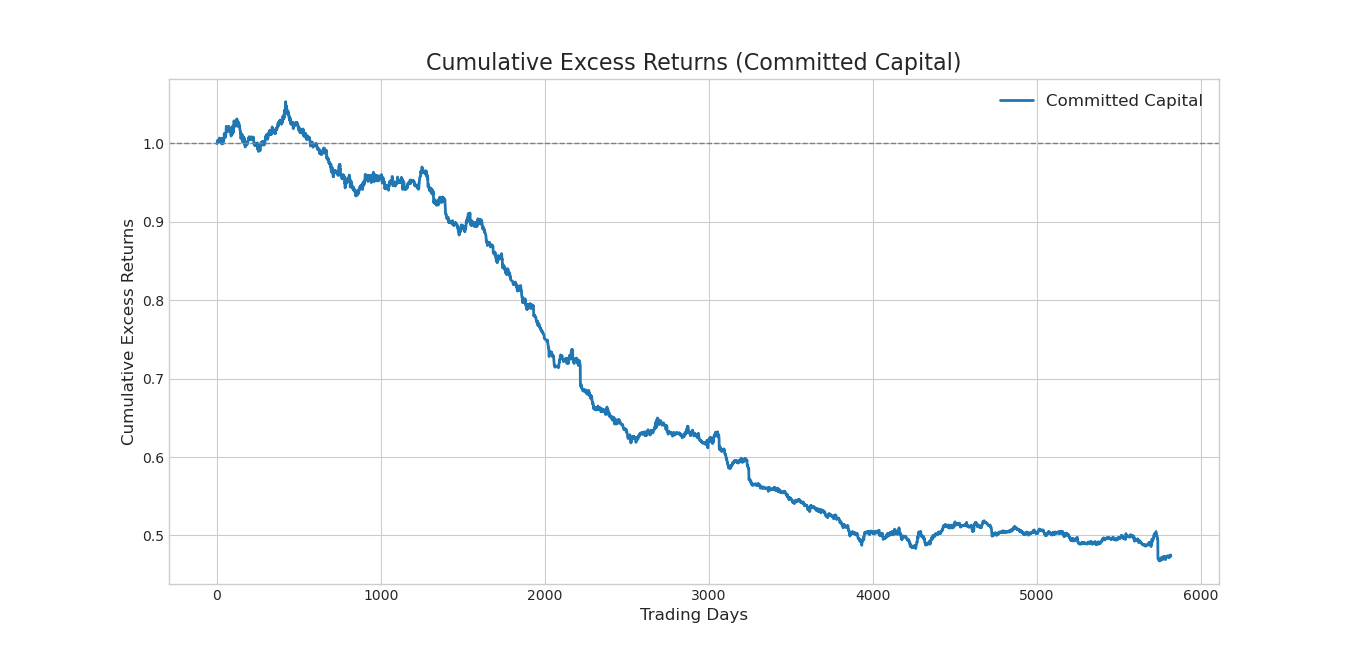
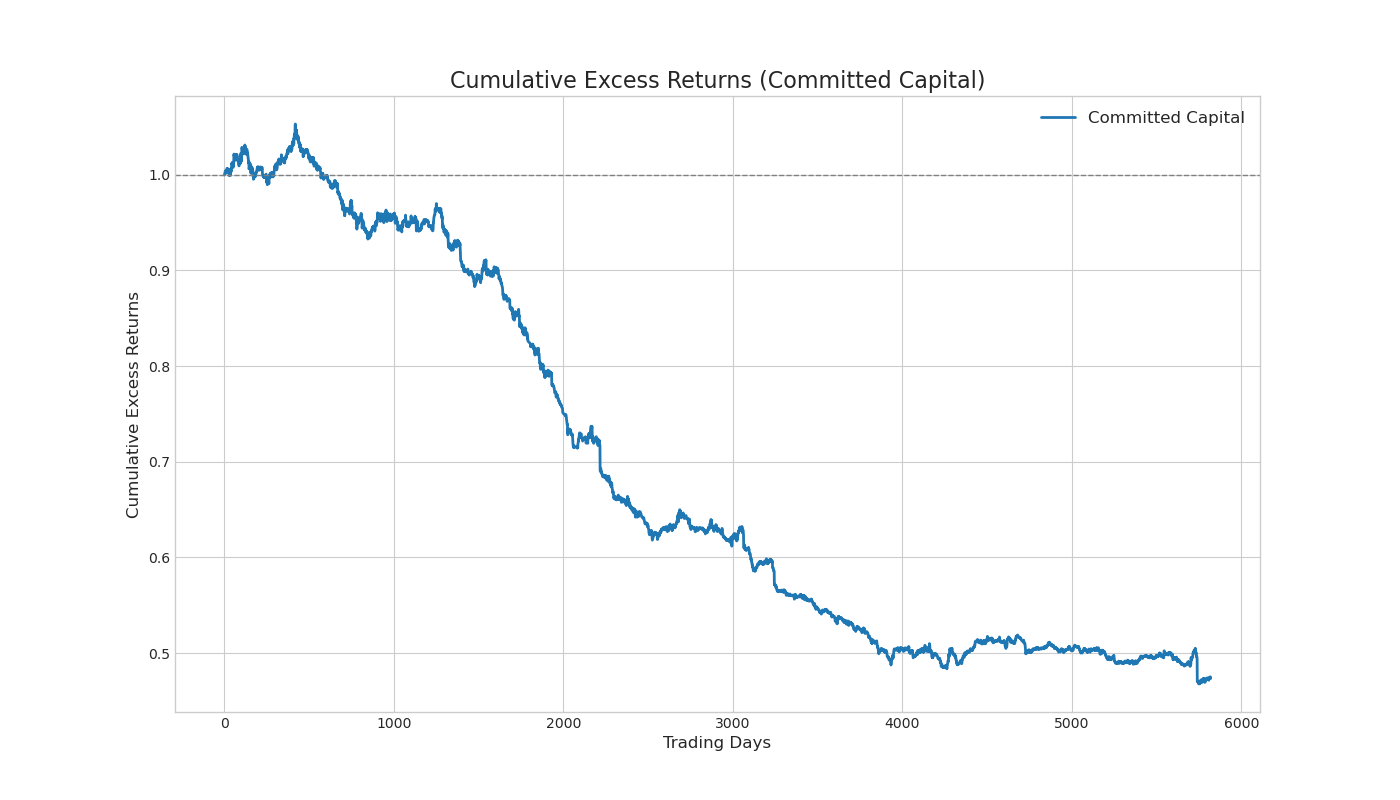
Changing cummulative CC return inside loop

diff --git a/distance_code/.ipynb_checkpoints/distance_gatev_v2-checkpoint.py b/distance_code/.ipynb_checkpoints/distance_gatev_v2-checkpoint.py
@@ -2,6 +2,11 @@ import math
 import numpy as np
 import pandas as pd
 from tqdm import tqdm
+from collections import Counter
+import scipy.stats
+import matplotlib.pyplot as plt
+import warnings
+warnings.filterwarnings('ignore', category=FutureWarning) #remove python standard warning and have clear output
 
 periods = pd.read_csv("../distance_data/Periods.csv", header=None)
 Pt = pd.read_csv("../distance_data/Pt_formatted.csv", header=0)
@@ -20,14 +25,14 @@ daylag = 0
 wi_update = 1
 years = 2015 - 1990 + 0.5
 
-no_pairs = 20
+no_pairs = 10
 trading_costs = 0
 # buy/sell (percentage cost for opening and closing pairs: 0.001, 0.002, for example)
-percentage_costs = 0
+percentage_costs = 0.002
 # set whether (0) or not (2) positive trading volume is required for opening/closing a pair
 trade_req = 0
 # Choose how much loss we are willing to accePt on a given pair, compared to 1, i.e, 0.93 = 7% stop loss
-Stop_loss = 0.01
+Stop_loss = 0.95
 
 if Stop_loss != float('-inf'):
     stop_dir = 100 - (Stop_loss * 100)
@@ -78,6 +83,13 @@ days_open = np.zeros((no_pairs*10000, 1))
 no_pairs_opened = np.zeros((int(years*2-2), no_pairs))
 
 counter = 0  # Keeps track of the days in the main loop
+
+# --- Initialize state variables for chaining returns ---
+last_cc_val = 1.0
+last_fi_val = 1.0
+last_rmrf_val = 1.0
+
+asset_frequency_counter = Counter() # Needed for final analysis
 
 # ----------------------------------------------------
 # Start of Main Loop - Creating Price Index
@@ -214,6 +226,11 @@ while big_loop < (years * 2 - 2):
         pairs.append({"s1_col": int(ro), "s2_col": int(co),
                      "s1_ticker": Pt.columns[index_listed2[ro]], "s2_ticker": Pt.columns[index_listed2[co]]})
         sse[ro, co] = max_SSE  # prevent re-selection
+
+
+    for pair_data in pairs: # Needed for final analysis
+        asset_frequency_counter[pair_data['s1_ticker']] += 1
+        asset_frequency_counter[pair_data['s2_ticker']] += 1
 
     # pd.DataFrame(min_SSE_ro).to_csv("min_SSE_ro.csv", header=None, index=False)
     # pd.DataFrame(min_SSE_co).to_csv("min_SSE_co.csv", header=None, index=False)
@@ -514,13 +531,16 @@ while big_loop < (years * 2 - 2):
 
     # print(f"Rp_ew_cc len: {np.shape(Rp_ew_cc)} | value: {Rp_ew_cc}")
 
-    ret_acum_df['CC'][counter-six_months+1:counter+1] = np.cumprod(
-        1 + (Rp_ew_cc['Return'][counter-six_months+1:counter+1]))[:six_months]
-    # [MaxDD,~] = maxdrawdown(ret2tick(Rp_ew_cc(counter-Six_mo:counter-1,:)));
-    # MDDw(big_loop,2) = MaxDD;
-    # Sortino = sortinoratio(Rp_ew_cc(counter-Six_mo:counter-1,:),0);
-    # Sortino_w(big_loop,2) = Sortino;
-
+    start_idx = counter - six_months + 1
+    end_idx = counter + 1
+    
+    # Committed Capital (CC)
+    daily_cc_returns = Rp_ew_cc['Return'][start_idx:end_idx][:six_months]
+    semester_cumprod_cc = np.cumprod(1 + daily_cc_returns)
+    continuous_cumprod_cc = semester_cumprod_cc * last_cc_val
+    ret_acum_df['CC'][start_idx:end_idx] = continuous_cumprod_cc
+    if not continuous_cumprod_cc.empty:
+        last_cc_val = continuous_cumprod_cc.iloc[-1]
     #
     # vw-weighted, fully invested; weights "restart" from 1 every time a new pair is opened;
     # Capital divided between open portfolios.
@@ -575,25 +595,38 @@ while big_loop < (years * 2 - 2):
     # Sortino = sortinoratio(Rp_vw_fi(counter-Six_mo:counter-1,:),0);
     # Sortino_w(big_loop,4) = Sortino;
 
+    # Fully Invested (FI)
+    daily_fi_returns = Rp_vw_fi['Return'][start_idx:end_idx][:six_months]
+    semester_cumprod_fi = np.cumprod(1 + daily_fi_returns)
+    continuous_cumprod_fi = semester_cumprod_fi * last_fi_val
+    ret_acum_df['FI'][start_idx:end_idx] = continuous_cumprod_fi
+    if not continuous_cumprod_fi.empty:
+        last_fi_val = continuous_cumprod_fi.iloc[-1]
+
     RmRf[counter-six_months+1:counter +
                    1] = (Rm.iloc[counter-six_months+1:counter + 1, :] - Rf.iloc[counter-six_months+1:counter + 1, :]).to_numpy()
 
     risk_free['Return'][counter-six_months+1:counter + 1] = (Rf.iloc[counter-six_months+1:counter + 1, 0])
 
-    ret_acum_df['RMRF'][counter-six_months+1:counter+1] = np.cumprod(
-        1+(Rm.iloc[:six_months, 0]-Rf.iloc[:six_months, 0]).to_numpy())
+    # Market Benchmark (RMRF)
+    daily_rmrf_returns = (Rm.iloc[start_idx:end_idx, 0] - Rf.iloc[start_idx:end_idx, 0]).to_numpy()[:six_months]
+    semester_cumprod_rmrf = np.cumprod(1 + daily_rmrf_returns)
+    continuous_cumprod_rmrf = semester_cumprod_rmrf * last_rmrf_val
+    ret_acum_df['RMRF'][start_idx:end_idx] = continuous_cumprod_rmrf
+    if continuous_cumprod_rmrf.size > 0:
+        last_rmrf_val = continuous_cumprod_rmrf[-1]
 
-    ret_acum_df['SEMESTER'][counter-six_months+1:counter+1] = int(big_loop)
+    ret_acum_df['SEMESTER'][start_idx:end_idx] = int(big_loop)
     Rp_ew_cc['Semester'][counter-six_months+1:counter+1] = int(big_loop)
     Rp_vw_fi['Semester'][counter-six_months+1:counter+1] = int(big_loop)
     risk_free['Semester'][counter-six_months+1:counter+1] = int(big_loop)
 
     if Stop_loss == float("-inf"):
-        Rp_ew_cc.to_csv("../distance_results/duration_limit/Rp_ew_cc.csv", index=False)
-        Rp_vw_fi.to_csv("../distance_results/duration_limit/Rp_vw_fi.csv", index=False)
-        pd.DataFrame(RmRf).to_csv("../distance_results/duration_limit/RmRf.csv", header=None, index=False)
-        risk_free.to_csv("../distance_results/duration_limit/risk_free.csv")
-        ret_acum_df.to_csv("../distance_results/duration_limit/ret_acum_df.csv")
+        Rp_ew_cc.to_csv("../distance_results/Rp_ew_cc.csv", index=False)
+        Rp_vw_fi.to_csv("../distance_results/Rp_vw_fi.csv", index=False)
+        pd.DataFrame(RmRf).to_csv("../distance_results/RmRf.csv", header=None, index=False)
+        risk_free.to_csv("../distance_results/risk_free.csv")
+        ret_acum_df.to_csv("../distance_results/ret_acum_df.csv")
     else:
          
         Rp_ew_cc.to_csv(f"../distance_results/Rp_ew_cc.csv", index=False)
@@ -619,3 +652,168 @@ if Stop_loss == float('-inf'):
     operations_df.to_csv(f"../distance_results/duration_limit/operations.csv")
 else:
     operations_df.to_csv(f"../distance_results/operations.csv")
+
+##################################################################
+# FINAL ANALYSIS AND CHART GENERATION
+##################################################################
+
+print("\n\n========================================================")
+print("           FINAL PORTFOLIO ANALYSIS")
+print("========================================================")
+
+# --- Define Helper Functions for Performance Metrics ---
+
+def calculate_sortino_ratio(returns, risk_free_rate=0):
+    """Calculates the Sortino Ratio."""
+    target_return = 0
+    downside_returns = returns[returns < target_return]
+    if len(downside_returns) == 0:
+        return np.nan
+    expected_return = returns.mean()
+    downside_std = downside_returns.std()
+    sortino = (expected_return - risk_free_rate) / downside_std
+    return sortino * np.sqrt(252) # Annualize
+
+def calculate_max_drawdown(returns):
+    """Calculates the Maximum Drawdown."""
+    cumulative_returns = (1 + returns).cumprod()
+    peak = cumulative_returns.expanding(min_periods=1).max()
+    drawdown = (cumulative_returns - peak) / peak
+    return drawdown.min()
+
+# --- Part 1: Generate Data for "Descriptive Statistics" Table ---
+
+print("\n--- Descriptive Statistics for the Most Traded Assets (Table 2) ---")
+
+# Define how many top assets to analyze
+top_n_assets = 11 
+most_common_assets = asset_frequency_counter.most_common(top_n_assets)
+
+stats_data = []
+for asset_ticker, count in most_common_assets:
+    # Get the full return series for the asset
+    asset_returns = Rt[asset_ticker].dropna()
+    
+    # Calculate stats
+    mean_ret = asset_returns.mean()
+    std_dev = asset_returns.std()
+    sharpe_ratio = (mean_ret / std_dev) * np.sqrt(252) # Assuming Rf=0 for individual asset SR
+    min_ret = asset_returns.min()
+    max_ret = asset_returns.max()
+    
+    stats_data.append({
+        "Symbol": asset_ticker,
+        "Mean": f"{mean_ret:.4f}",
+        "Std Dev": f"{std_dev:.4f}",
+        "SR": f"{sharpe_ratio:.4f}",
+        "Min": f"{min_ret*100:.2f}",
+        "Max": f"{max_ret*100:.2f}"
+    })
+
+stats_df = pd.DataFrame(stats_data)
+print(stats_df.to_string(index=False))
+
+stats_df.to_csv(f"../distance_results/final_analysis_stats.csv")
+
+# --- Part 2: Generate Data for "Excess Returns" Table ---
+
+print("\n\n--- Performance Metrics of Trading Strategies (Table 3) ---")
+
+# Consolidate the portfolio returns, dropping any non-trading periods
+cc_returns = Rp_ew_cc[Rp_ew_cc['Return'] != 0]['Return'].dropna()
+fi_returns = Rp_vw_fi[Rp_vw_fi['Return'] != 0]['Return'].dropna()
+rf_returns = risk_free[risk_free.index.isin(cc_returns.index)]['Return'].dropna()
+
+# Align risk-free rates with portfolio returns
+cc_excess_returns = cc_returns - rf_returns
+fi_excess_returns = fi_returns - rf_returns
+
+# Calculate metrics for both strategies
+metrics = {}
+strategies = {
+    "Committed Capital": (cc_returns, cc_excess_returns),
+    "Fully Invested": (fi_returns, fi_excess_returns)
+}
+
+for name, (returns, excess_returns) in strategies.items():
+    if len(returns) > 0:
+        # Annualized values
+        ann_mean_return = returns.mean() * 252
+        ann_std_dev = returns.std() * np.sqrt(252)
+        ann_sharpe_ratio = (excess_returns.mean() * 252) / ann_std_dev
+        
+        metrics[name] = {
+            "Mean Return (%)": f"{ann_mean_return * 100:.3f}",
+            "Sharpe Ratio": f"{ann_sharpe_ratio:.3f}",
+            "Sortino Ratio": f"{calculate_sortino_ratio(returns, rf_returns.mean()):.3f}",
+            "t-statistic": f"{scipy.stats.ttest_1samp(returns, 0).statistic:.3f}",
+            "% of negative excess returns": f"{ (excess_returns < 0).sum() / len(excess_returns) * 100:.2f}",
+            "MDD (%)": f"{calculate_max_drawdown(returns) * 100:.2f}",
+            "Annualized STD (%)": f"{ann_std_dev * 100:.3f}",
+            "Skewness": f"{returns.skew():.3f}",
+            "Kurtosis": f"{returns.kurtosis():.3f}", # Pandas kurtosis is excess kurtosis (0 is normal)
+            "Minimum Daily Ret (%)": f"{returns.min() * 100:.3f}",
+            "Maximum Daily Ret (%)": f"{returns.max() * 100:.3f}"
+        }
+    else:
+        metrics[name] = {k: "N/A" for k in strategies["Committed Capital"][1]}
+
+
+performance_df = pd.DataFrame(metrics)
+print(performance_df)
+
+performance_df.to_csv(f"../distance_results/final_analysis_performance.csv")
+
+# --------------------
+# Generating chart
+# --------------------
+
+print("\n--- Generating Cumulative Excess Returns Plot ---")
+
+# We will plot only the "Committed Capital" strategy returns.
+# First, get the series of non-zero daily returns for this strategy.
+cc_returns = Rp_ew_cc[Rp_ew_cc['Return'] != 0]['Return'].dropna()
+
+# Get the corresponding risk-free rates for the same days
+if not cc_returns.empty:
+    rf_returns = risk_free.loc[cc_returns.index, 'Return'].dropna()
+
+    # Calculate the excess returns
+    cc_excess_returns = cc_returns - rf_returns
+
+    # Calculate the cumulative product of the excess returns
+    cumulative_cc = (1 + cc_excess_returns).cumprod()
+
+    cumulative_cc_df = pd.DataFrame(cumulative_cc)
+    cumulative_cc_df.to_csv(f"../distance_results/final_analysis_cum_return.csv")
+
+    # Use a simple numerical series (0, 1, 2, ...) for the x-axis
+    x_axis_data = range(len(cumulative_cc))
+
+    # --- Create the plot ---
+    plt.style.use('seaborn-v0_8-whitegrid')
+    fig, ax = plt.subplots(figsize=(14, 8))
+
+    ax.plot(x_axis_data, cumulative_cc, label='Committed Capital', linewidth=2, color='C0') # 'C0' is default blue
+
+    # Add titles and labels for clarity
+    ax.set_title('Cumulative Excess Returns (Committed Capital)', fontsize=16)
+    ax.set_xlabel('Trading Days', fontsize=12)
+    ax.set_ylabel('Cumulative Excess Returns', fontsize=12)
+    ax.legend(fontsize=12)
+
+    # Set a baseline at 1.0 for reference
+    ax.axhline(y=1, color='grey', linestyle='--', linewidth=1)
+    
+    print("Displaying plot...")
+    plt.show()
+
+    fig = ax.get_figure()
+    fig.savefig('./distance_cumm_return.png')
+
+else:
+    print("No trading data available to generate the plot.")
+
+print("\n========================================================")
+print("                 ANALYSIS COMPLETE")
+print("========================================================")

diff --git a/distance_code/distance_gatev_v2.py b/distance_code/distance_gatev_v2.py
@@ -84,6 +84,11 @@ no_pairs_opened = np.zeros((int(years*2-2), no_pairs))
 
 counter = 0  # Keeps track of the days in the main loop
 
+# --- Initialize state variables for chaining returns ---
+last_cc_val = 1.0
+last_fi_val = 1.0
+last_rmrf_val = 1.0
+
 asset_frequency_counter = Counter() # Needed for final analysis
 
 # ----------------------------------------------------
@@ -526,13 +531,16 @@ while big_loop < (years * 2 - 2):
 
     # print(f"Rp_ew_cc len: {np.shape(Rp_ew_cc)} | value: {Rp_ew_cc}")
 
-    ret_acum_df['CC'][counter-six_months+1:counter+1] = np.cumprod(
-        1 + (Rp_ew_cc['Return'][counter-six_months+1:counter+1]))[:six_months]
-    # [MaxDD,~] = maxdrawdown(ret2tick(Rp_ew_cc(counter-Six_mo:counter-1,:)));
-    # MDDw(big_loop,2) = MaxDD;
-    # Sortino = sortinoratio(Rp_ew_cc(counter-Six_mo:counter-1,:),0);
-    # Sortino_w(big_loop,2) = Sortino;
-
+    start_idx = counter - six_months + 1
+    end_idx = counter + 1
+    
+    # Committed Capital (CC)
+    daily_cc_returns = Rp_ew_cc['Return'][start_idx:end_idx][:six_months]
+    semester_cumprod_cc = np.cumprod(1 + daily_cc_returns)
+    continuous_cumprod_cc = semester_cumprod_cc * last_cc_val
+    ret_acum_df['CC'][start_idx:end_idx] = continuous_cumprod_cc
+    if not continuous_cumprod_cc.empty:
+        last_cc_val = continuous_cumprod_cc.iloc[-1]
     #
     # vw-weighted, fully invested; weights "restart" from 1 every time a new pair is opened;
     # Capital divided between open portfolios.
@@ -587,15 +595,28 @@ while big_loop < (years * 2 - 2):
     # Sortino = sortinoratio(Rp_vw_fi(counter-Six_mo:counter-1,:),0);
     # Sortino_w(big_loop,4) = Sortino;
 
+    # Fully Invested (FI)
+    daily_fi_returns = Rp_vw_fi['Return'][start_idx:end_idx][:six_months]
+    semester_cumprod_fi = np.cumprod(1 + daily_fi_returns)
+    continuous_cumprod_fi = semester_cumprod_fi * last_fi_val
+    ret_acum_df['FI'][start_idx:end_idx] = continuous_cumprod_fi
+    if not continuous_cumprod_fi.empty:
+        last_fi_val = continuous_cumprod_fi.iloc[-1]
+
     RmRf[counter-six_months+1:counter +
                    1] = (Rm.iloc[counter-six_months+1:counter + 1, :] - Rf.iloc[counter-six_months+1:counter + 1, :]).to_numpy()
 
     risk_free['Return'][counter-six_months+1:counter + 1] = (Rf.iloc[counter-six_months+1:counter + 1, 0])
 
-    ret_acum_df['RMRF'][counter-six_months+1:counter+1] = np.cumprod(
-        1+(Rm.iloc[:six_months, 0]-Rf.iloc[:six_months, 0]).to_numpy())
+    # Market Benchmark (RMRF)
+    daily_rmrf_returns = (Rm.iloc[start_idx:end_idx, 0] - Rf.iloc[start_idx:end_idx, 0]).to_numpy()[:six_months]
+    semester_cumprod_rmrf = np.cumprod(1 + daily_rmrf_returns)
+    continuous_cumprod_rmrf = semester_cumprod_rmrf * last_rmrf_val
+    ret_acum_df['RMRF'][start_idx:end_idx] = continuous_cumprod_rmrf
+    if continuous_cumprod_rmrf.size > 0:
+        last_rmrf_val = continuous_cumprod_rmrf[-1]
 
-    ret_acum_df['SEMESTER'][counter-six_months+1:counter+1] = int(big_loop)
+    ret_acum_df['SEMESTER'][start_idx:end_idx] = int(big_loop)
     Rp_ew_cc['Semester'][counter-six_months+1:counter+1] = int(big_loop)
     Rp_vw_fi['Semester'][counter-six_months+1:counter+1] = int(big_loop)
     risk_free['Semester'][counter-six_months+1:counter+1] = int(big_loop)
